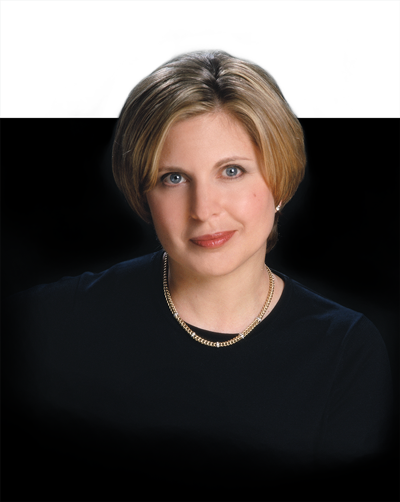
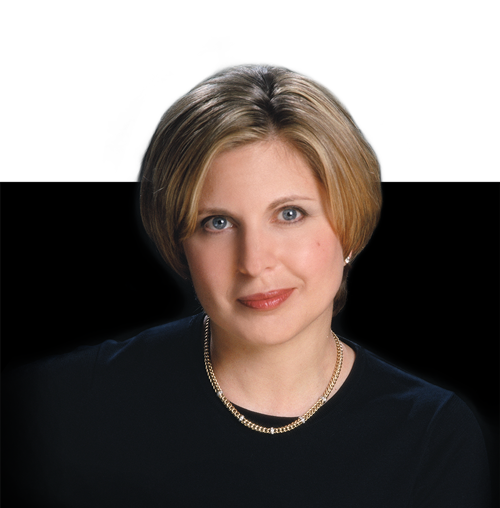
profile pic'

diff --git a/app/assets/stylesheets/main.scss b/app/assets/stylesheets/main.scss
@@ -12,6 +12,7 @@
 	font-family: 'Lato', sans-serif;
 }
 .section {
+    position: relative;
     padding-top: 2em;
     padding-bottom: 8em;
     background: #fff;
@@ -20,6 +21,7 @@
 }
 
 .section-dark {
+    position: relative;
     padding-top: 2em;
     padding-bottom: 8em;
     background: #f3f3f3;
@@ -92,6 +94,9 @@
 #index .book-photo {
     width: 100%;
     margin-top: 15em;
+    position: absolute;
+    right:0;
+    top: 0;
 }
 
 #index .webinar-photo {
@@ -147,9 +152,9 @@
 }
 
 #index .slider .profile {
-    height: 35em;
+    height: 50em;
     display: block;
-    margin: -7em auto 0;
+    margin: -11em auto 0;
 }
 
 

diff --git a/app/assets/javascripts/application.js b/app/assets/javascripts/application.js
@@ -14,3 +14,11 @@
 //= require jquery_ujs
 //= require turbolinks
 //= require_tree .
+
+
+
+
+$(document).ready(function() {
+
+
+})
